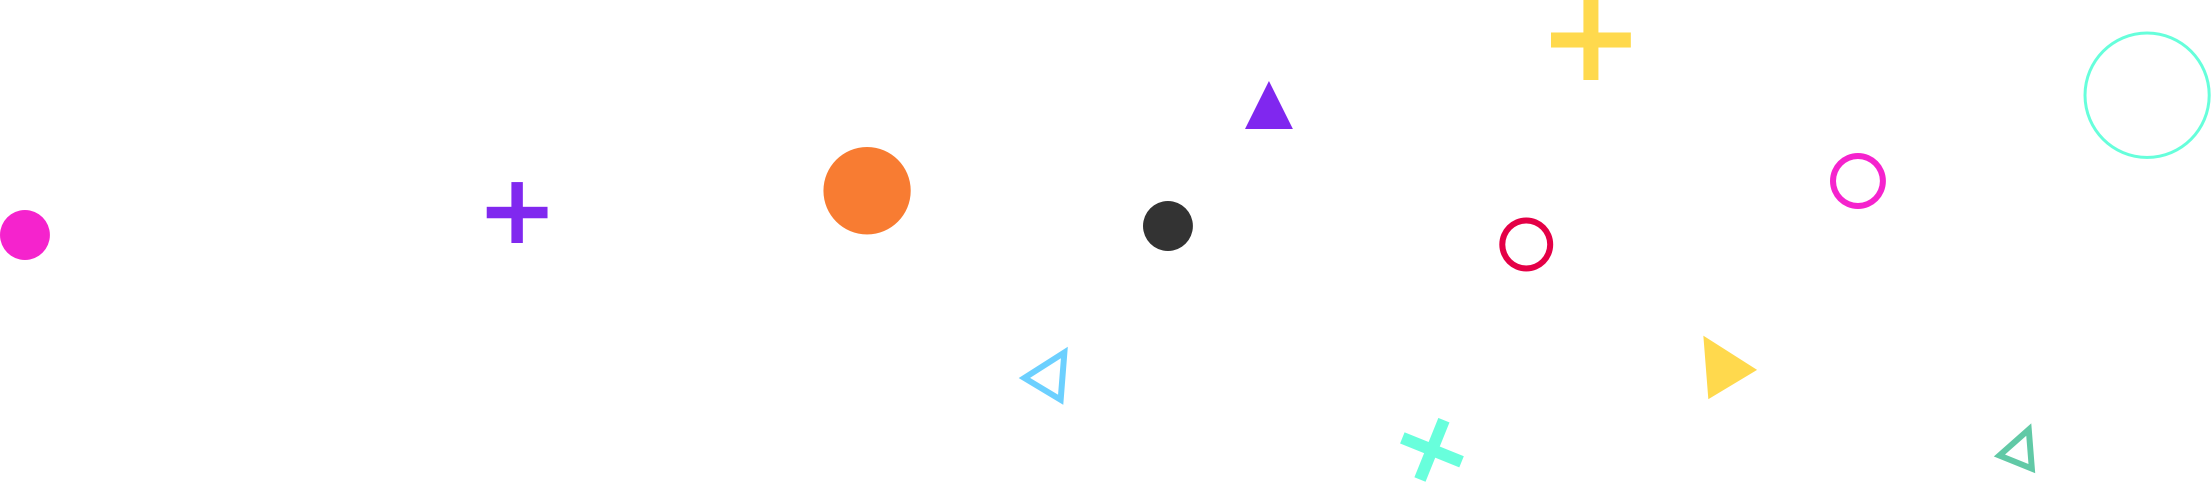
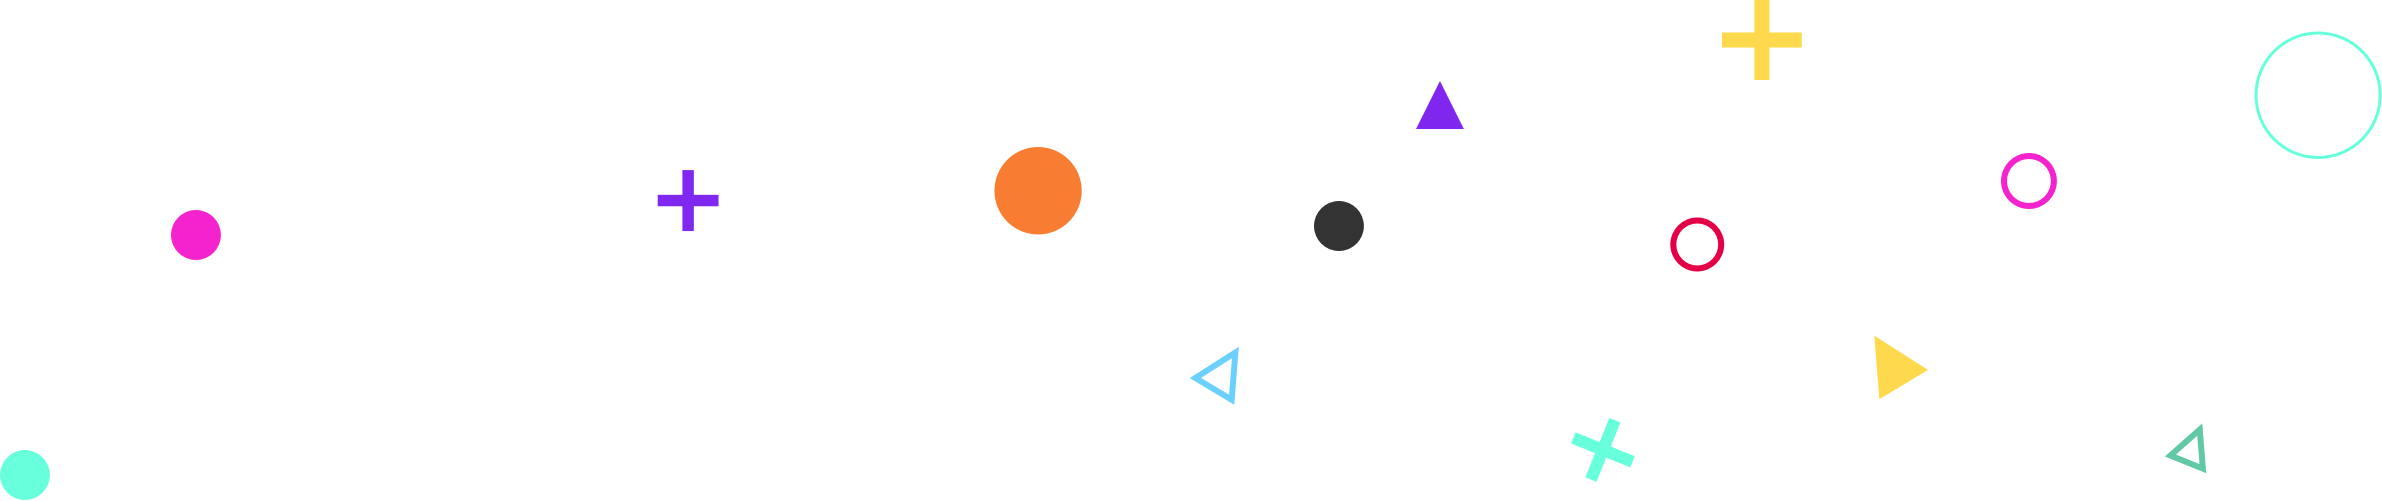
fix modal bg image

diff --git a/client/src/App.css b/client/src/App.css
@@ -421,7 +421,8 @@ ul ul a:hover {
   /*display: none;*/
   width: 100%;
   position: absolute;
-  margin-top: -80px;
+  margin-top: -70px;
+  margin-left: -35px;
   z-index: -100;
 }
 
